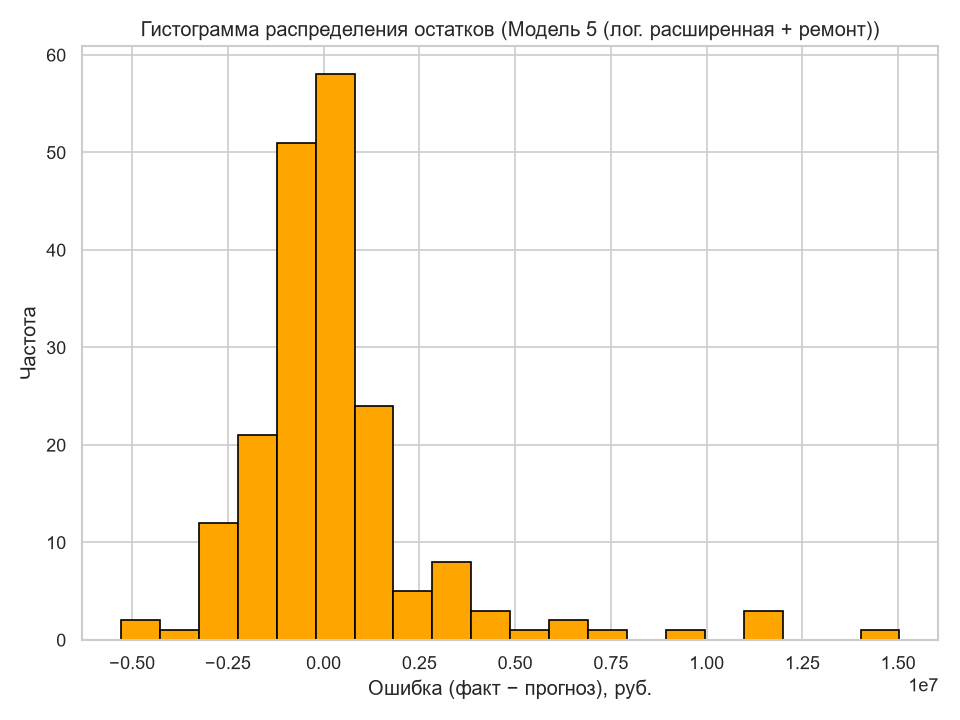
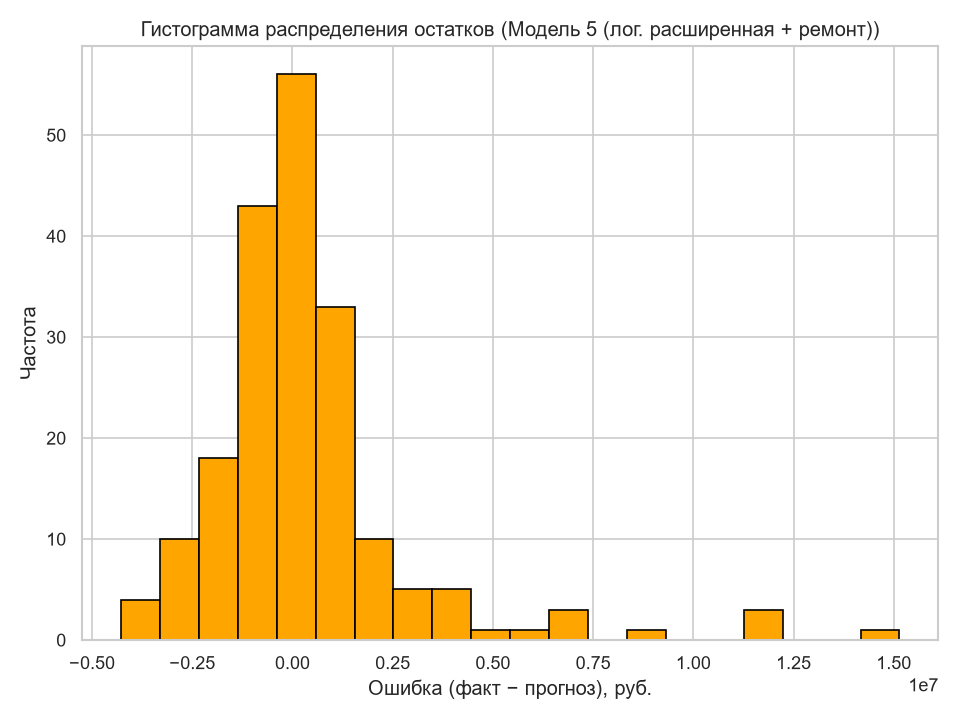
some fixes

diff --git a/main.py b/main.py
@@ -329,13 +329,17 @@ models_info['Модель 1 (базовая)'] = (m1, df_m1, ['total_area', 'flo
 m2, df_m2 = build_ols_model(['total_area', 'rooms', 'total_floors', 'first_floor'])
 models_info['Модель 2 (расширенная)'] = (m2, df_m2, ['total_area', 'rooms', 'total_floors', 'first_floor'], False)
 
-# Модель 3: + качественные характеристики жилья (ремонт, балкон, материал)
-# Добавляем потребительские качества объекта — ремонт и балкон.
+# Модель 3: + качественные характеристики жилья (ремонт, балкон, материал, этаж)
+# Добавляем потребительские качества объекта — ремонт, балкон, а также
+# last_floor и is_panel, чтобы явно проверить гипотезы Г3 (последний этаж)
+# и Г6 (кирпич vs панель) регрессионно, а не только описательно.
 m3, df_m3 = build_ols_model(['total_area', 'rooms', 'total_floors',
-                              'first_floor', 'is_brick', 'repair', 'has_balcony'])
-models_info['Модель 3 (+ ремонт и балкон)'] = (
+                              'first_floor', 'last_floor', 'is_brick', 'is_panel',
+                              'repair', 'has_balcony'])
+models_info['Модель 3 (+ ремонт, балкон, этаж, материал)'] = (
     m3, df_m3,
-    ['total_area', 'rooms', 'total_floors', 'first_floor', 'is_brick', 'repair', 'has_balcony'],
+    ['total_area', 'rooms', 'total_floors', 'first_floor', 'last_floor',
+     'is_brick', 'is_panel', 'repair', 'has_balcony'],
     False)
 
 # Модель 4: Логарифмическая простая — log(цена) от log(площади) и комнат
@@ -345,14 +349,14 @@ m4, df_m4 = build_ols_model(['log_total_area', 'rooms'], log_y=True)
 models_info['Модель 4 (логарифмическая)'] = (m4, df_m4, ['log_total_area', 'rooms'], True)
 
 # Модель 5: Логарифмическая расширенная — log(цена) от log(площади),
-# комнат, этажности, первого этажа, ремонта и балкона.
+# комнат, этажности, первого/последнего этажа, ремонта и балкона.
 # Это наиболее полная спецификация — сочетает нелинейность (логарифм)
 # с набором значимых предикторов.
 m5, df_m5 = build_ols_model(['log_total_area', 'rooms', 'total_floors',
-                              'first_floor', 'repair', 'has_balcony'], log_y=True)
+                              'first_floor', 'last_floor', 'repair', 'has_balcony'], log_y=True)
 models_info['Модель 5 (лог. расширенная + ремонт)'] = (
     m5, df_m5,
-    ['log_total_area', 'rooms', 'total_floors', 'first_floor', 'repair', 'has_balcony'],
+    ['log_total_area', 'rooms', 'total_floors', 'first_floor', 'last_floor', 'repair', 'has_balcony'],
     True)
 
 print(f"\nПостроено моделей: {len(models_info)}\n")